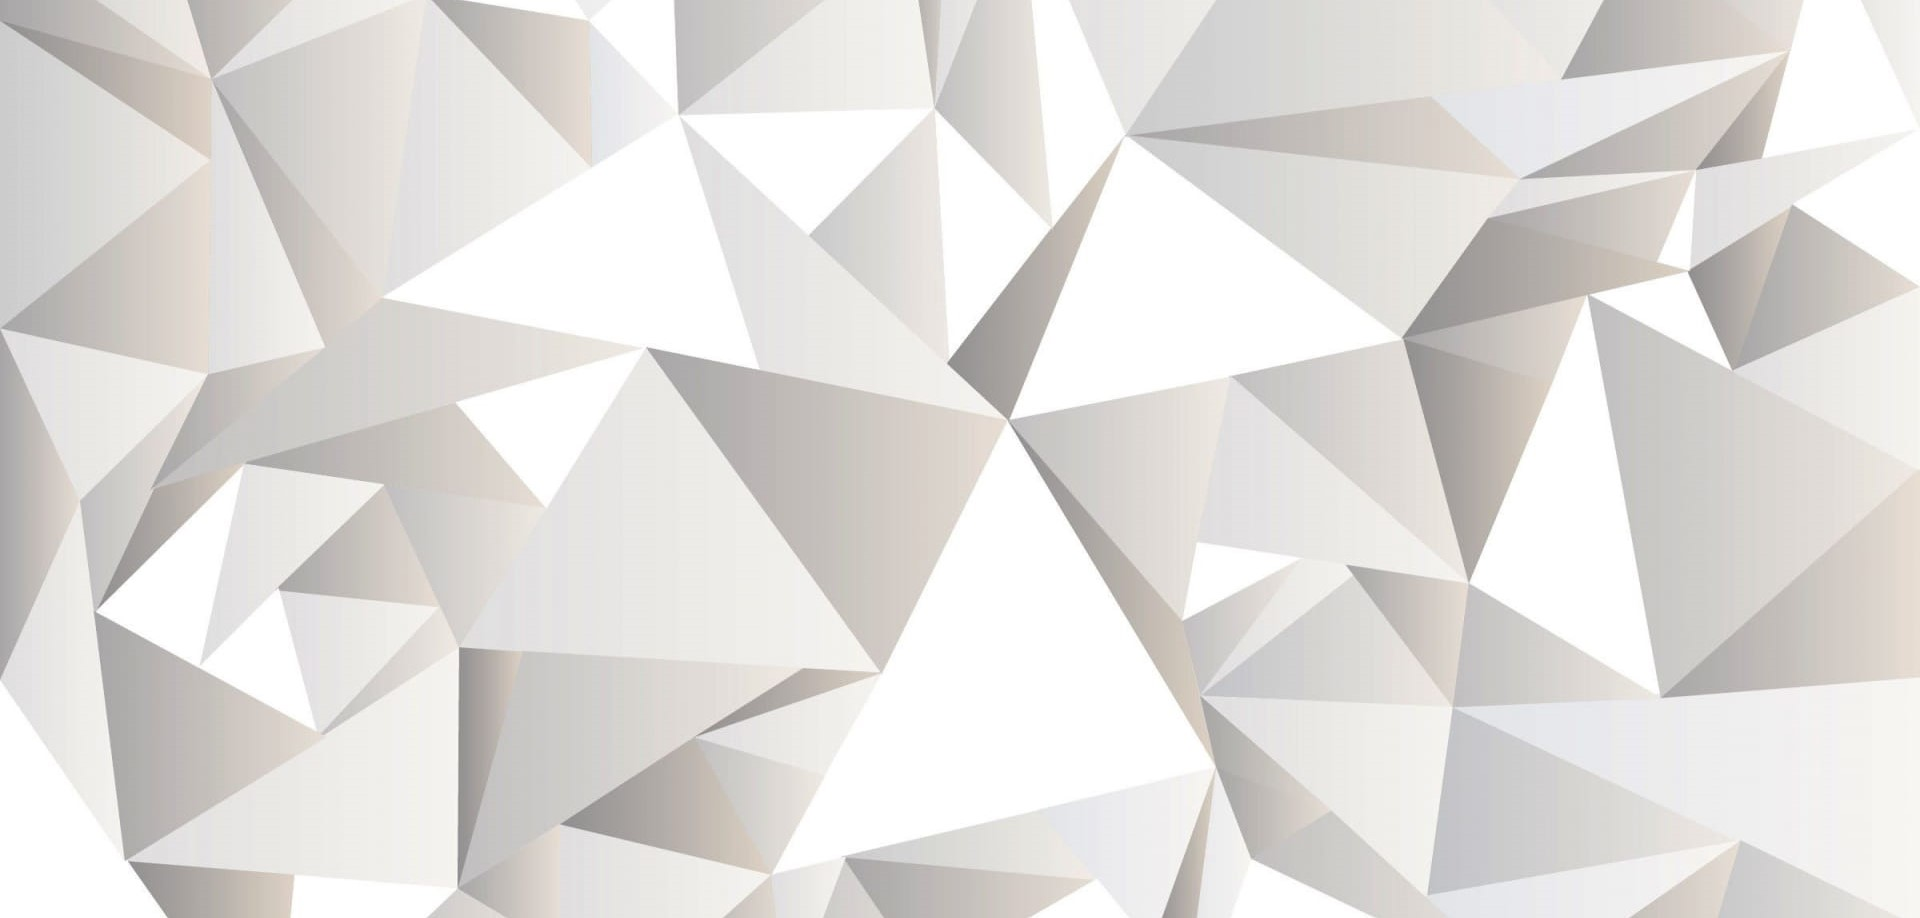
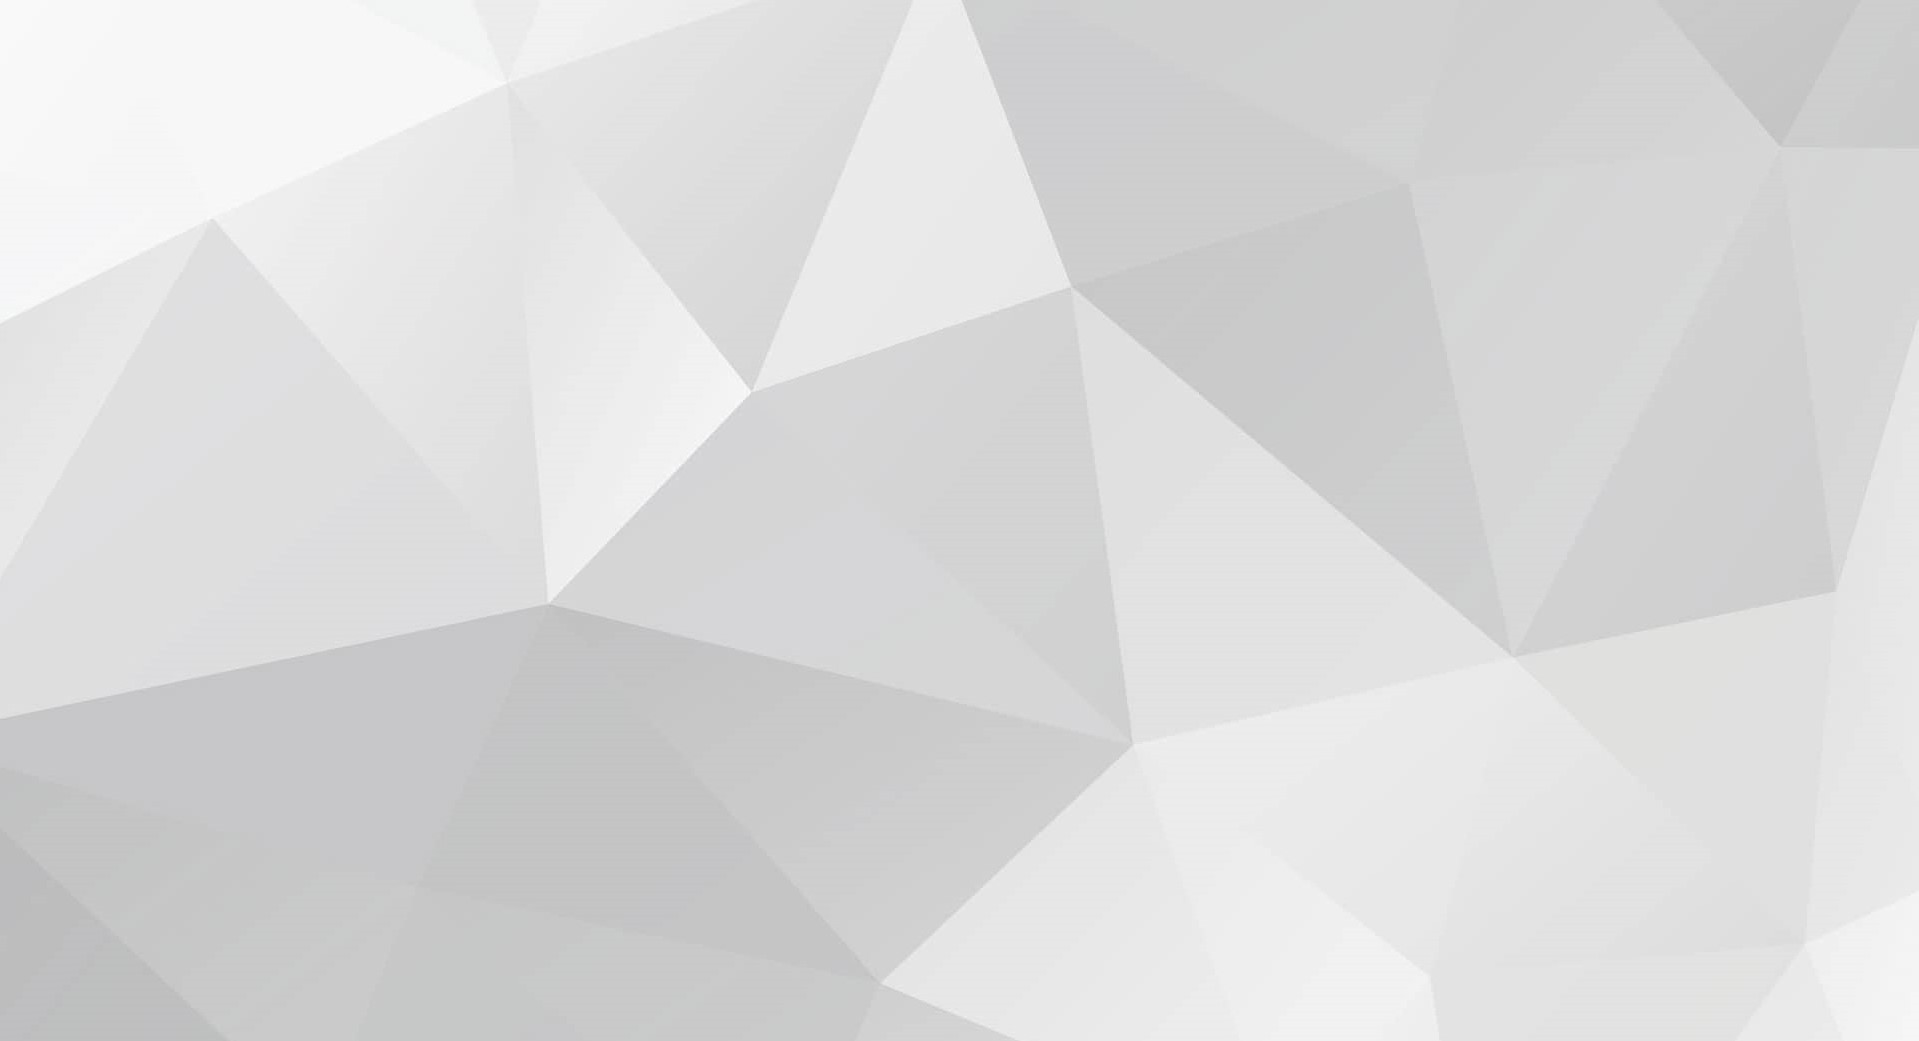
changed background image and made it responsive

diff --git a/client/src/css/pages/Home.scss b/client/src/css/pages/Home.scss
@@ -14,7 +14,7 @@
       bottom: 0;
       left: 40%;
       transform: translateX(-50%);
-      height: 90%;
+      height: 70rem;
       pointer-events: none;
       z-index: 5;
     }
@@ -28,16 +28,17 @@
       .name {
         font-size: 6rem;
         text-align: right;
-        padding-right: 5rem;
+        padding-right: 6rem;
         font-family: "Berkshire Swash", cursive;
         margin-top: 20rem;
+        margin-left: auto;
       }
     }
     .div2 {
       flex: 60%;
       padding-left: 25rem;
       margin-top: 25rem;
-      padding-right: 25%;
+      padding-right: 10%;
       display: block;
       .title {
         font-size: 2rem;
@@ -89,7 +90,7 @@
         }
 
         a:link:first-child::before,
-        a:visited:first-child::before { 
+        a:visited:first-child::before {
           content: "";
           position: absolute;
           top: 0;
@@ -110,14 +111,142 @@
 
         a:first-child:hover,
         a:first-child:active {
-          color: var(--color-hover); 
+          color: var(--color-hover);
         }
       }
     }
   }
 
   &__background[data-theme="light"] {
-    background: url("../../images/home/white-back.jpg");
+    background: url("https://sandiasexecutivesearch.com/wp-content/uploads/2018/10/GEOMETRIC-WHITE.jpg");
     background-size: cover;
+  }
+
+  //*-*-*-*-*-*-*-*-*-*-- The 1300px Mark Break Point *-*-*-*-*-*-*-*-*-*-*
+  @include media-desktop {
+    &__background {
+      .div2 {
+        padding-left: 20rem;
+        padding-right: 5%;
+      }
+    }
+  }
+
+  //*-*-*-*-*-*-*-*-*-*-- The 1000px Mark Break Point *-*-*-*-*-*-*-*-*-*-*
+  @include media-tablet {
+    &__background {
+      flex-direction: column;
+
+      img {
+        right: 0%;
+        left: unset;
+        height: 60rem;
+        top: 10rem;
+      }
+
+      .div1 {
+        .name {
+          font-size: 6rem;
+          text-align: left;
+          margin-left: 10rem;
+          margin-top: 25rem;
+        }
+      }
+      .div2 {
+        padding-left: 5rem;
+        .desc {
+          font-size: 2rem;
+        }
+
+        .phone,
+        .email {
+          font-size: 1.8rem;
+        }
+      }
+    }
+  }
+  //*-*-*-*-*-*-*-*-*-*-- The 800px Mark Break Point *-*-*-*-*-*-*-*-*-*-*
+  @include media-large {
+    &__background {
+      img {
+        height: 50rem;
+      }
+
+      .div1 {
+        .name {
+          font-size: 5rem;
+          margin-left: 5rem;
+        }
+      }
+    }
+  }
+
+  //*-*-*-*-*-*-*-*-*-*-- The 600px Mark Break Point *-*-*-*-*-*-*-*-*-*-*
+  @include media-medium {
+    &__background {
+      img {
+        right: -5%;
+        height: 30rem;
+      }
+
+      .div1 {
+        .name {
+          font-size: 3.5rem;
+          margin-left: 5rem;
+          margin-top: 20rem;
+        }
+      }
+      .div2 {
+        margin-top: 15rem;
+
+        .subtitle {
+          font-size: 2.5rem;
+          font-weight: 500;
+          margin-bottom: 2rem;
+        }
+
+        .desc {
+          font-size: 1.7rem;
+        }
+      }
+    }
+  }
+
+  //*-*-*-*-*-*-*-*-*-*-- The 600px Mark Break Point *-*-*-*-*-*-*-*-*-*-*
+  @include media-small {
+    &__background {
+      img {
+        right: -10%;
+        height: 30rem;
+      }
+
+      .div1 {
+        .name {
+          font-size: 3rem;
+        }
+      }
+      .div2 {
+        padding: 0 1rem;
+        .title {
+          font-size: 1.8rem;
+          text-transform: capitalize;
+          color: var(--color-active); 
+          margin-bottom: 2rem;
+        }
+
+        .subtitle {
+          font-size: 2.3rem;
+          font-weight: 500;
+          margin-bottom: 2rem;
+        }
+
+        .desc {
+          font-size: 1.7rem;
+          line-height: 1.5;
+          font-weight: 300;
+          margin-bottom: 2rem;
+        }
+      }
+    }
   }
 }

diff --git a/client/src/css/variables.scss b/client/src/css/variables.scss
@@ -2,12 +2,12 @@
 
 // Light Color Palette (Custom Properties)
 html[data-theme="light"] {
-  --color-background-main: rgb(214, 214, 214);
-  --color-background-main-m: rgba(216, 216, 216, 0.55);
+  --color-background-main: rgb(206, 206, 208);
+  --color-background-main-m: rgb(206, 206, 208, 0.55);
   --color-hover: rgb(227, 157, 255);
-  --color-hover-m: rgba(227, 157, 255, 0.65); 
+  --color-hover-m: rgba(227, 157, 255, 0.65);
   --color-active: rgb(172, 68, 179);
-  --color-active-m: rgb(172, 68, 179, 0.65); 
+  --color-active-m: rgb(172, 68, 179, 0.65);
   --color-white: white;
   --color-white-m: rgba(255, 255, 255, 0.5);
   --color-black: black;
@@ -23,8 +23,8 @@ html[data-theme="dark"] {
   --color-hover: rgb(63, 185, 52);
   --color-hover-m: rgba(63, 185, 52, 0.65);
   --color-active: rgb(255, 72, 0);
-  --color-active-m: rgba(255, 0, 217, 0.65); 
-  --color-white: white; 
+  --color-active-m: rgba(255, 0, 217, 0.65);
+  --color-white: white;
   --color-white-m: rgba(255, 255, 255, 0.5);
   --color-black: black;
   --color-black-m: rgba(0, 0, 0, 0.5);
@@ -62,7 +62,8 @@ $font-sizes: (
 $break-points: (
   "break-point-small": 400px,
   "break-point-medium": 600px,
-  "break-point-tablet": 800px,
+  "break-point-large": 800px,
+  "break-point-tablet": 1000px,
   "break-point-desktop": 1300px,
 );
 

diff --git a/client/src/css/app.scss b/client/src/css/app.scss
@@ -86,7 +86,6 @@
   padding-bottom: 13px;
   position: relative;
   width: fit-content;
-  margin-left: auto;
   transition: transform 0.5s cubic-bezier(0.55, 0.055, 0.675, 0.19);
 
   &::before {
@@ -131,14 +130,21 @@
 
 //*-*-*-*-*-*-*-*-*-*- The 1300px Mark Break Point*-*-*-*-*-*-*-*-*-*-*
 @mixin media-desktop {
-  @media screen and (min-width: break-point(break-point-desktop)) {
+  @media screen and (max-width: break-point(break-point-desktop)) {
+    @content;
+  }
+}
+
+//*-*-*-*-*-*-*-*-*-*- The 1000px Mark Break Point*-*-*-*-*-*-*-*-*-*-*
+@mixin media-tablet {
+  @media screen and (max-width: break-point(break-point-tablet)) {
     @content;
   }
 }
 
 //*-*-*-*-*-*-*-*-*-*- The 800px Mark Break Point*-*-*-*-*-*-*-*-*-*-*
-@mixin media-tablet {
-  @media screen and (max-width: break-point(break-point-tablet)) {
+@mixin media-large {
+  @media screen and (max-width: break-point(break-point-large)) {
     @content;
   }
 }

diff --git a/client/src/css/layouts/header.scss b/client/src/css/layouts/header.scss
@@ -146,14 +146,14 @@
     }
   }
 
-  //*-*-*-*-*-*-*-*-*-*-- The 1300px Mark Break Point*-*-*-*-*-*-*-*-*-*-*
-  @include media-desktop {
+  //*-*-*-*-*-*-*-*-*-*-- The 1000px Mark Break Point*-*-*-*-*-*-*-*-*-*-*
+  @include media-tablet {
     &__nav {
       &--links {
         &__item {
           a:link,
           a:visited {
-            font-size: 1.7rem;
+            font-size: 1.7rem; 
           }
         }
       }
@@ -162,7 +162,7 @@
 
   //*-*-*-*-*-*-*-*-*-*-- The 800px Mark Break Point*-*-*-*-*-*-*-*-*-*-*
 
-  @include media-tablet {
+  @include media-large {
     &__nav {
       position: fixed;
       top: 0;
@@ -247,7 +247,7 @@
         position: absolute;
         width: 3.5rem;
         height: 0.2rem;
-        background-color: var(--color-white);
+        background-color: var(--color-text);
         top: 0;
         left: 0;
         right: 0;

diff --git a/client/src/components/pages/Home.js b/client/src/components/pages/Home.js
@@ -36,7 +36,7 @@ const Home = () => {
           <div className='div2'>
             <h5 className='title titeStyle2'>Jack of all trades</h5>
             <h3 className='subtitle'>
-              I'm full stack developer and data scientist
+              I'm a full stack developer and data scientist
             </h3>
             <p className='desc'>
               Aspiring to become proficient in every field related to

diff --git a/client/src/css/utilities.scss b/client/src/css/utilities.scss
@@ -3,7 +3,7 @@
 }
 
 body {
-  font-family: "Roboto", sans-serif;
+  font-family: 'Josefin Sans', sans-serif; 
   line-height: 1.9;
   background-color: var(--color-background-main);
 }

diff --git a/client/src/css/reset.scss b/client/src/css/reset.scss
@@ -4,7 +4,6 @@
   margin: 0;
   padding: 0;
   box-sizing: border-box;
-  font-family: 'Josefin Sans', sans-serif;
 }
 
 button{
